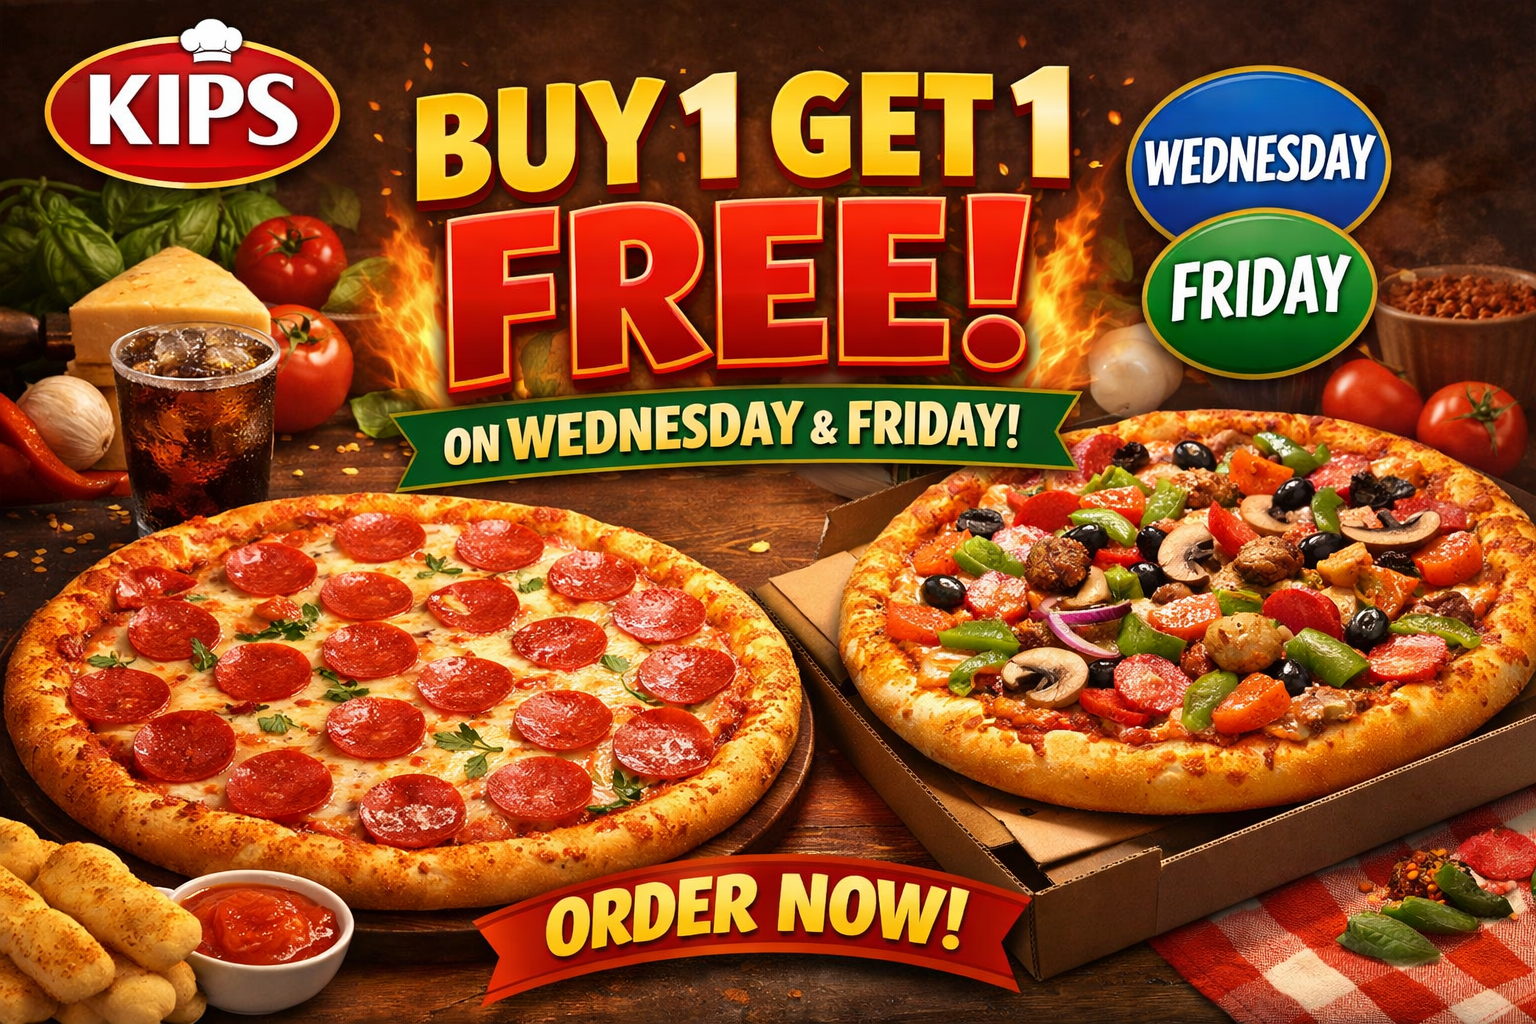
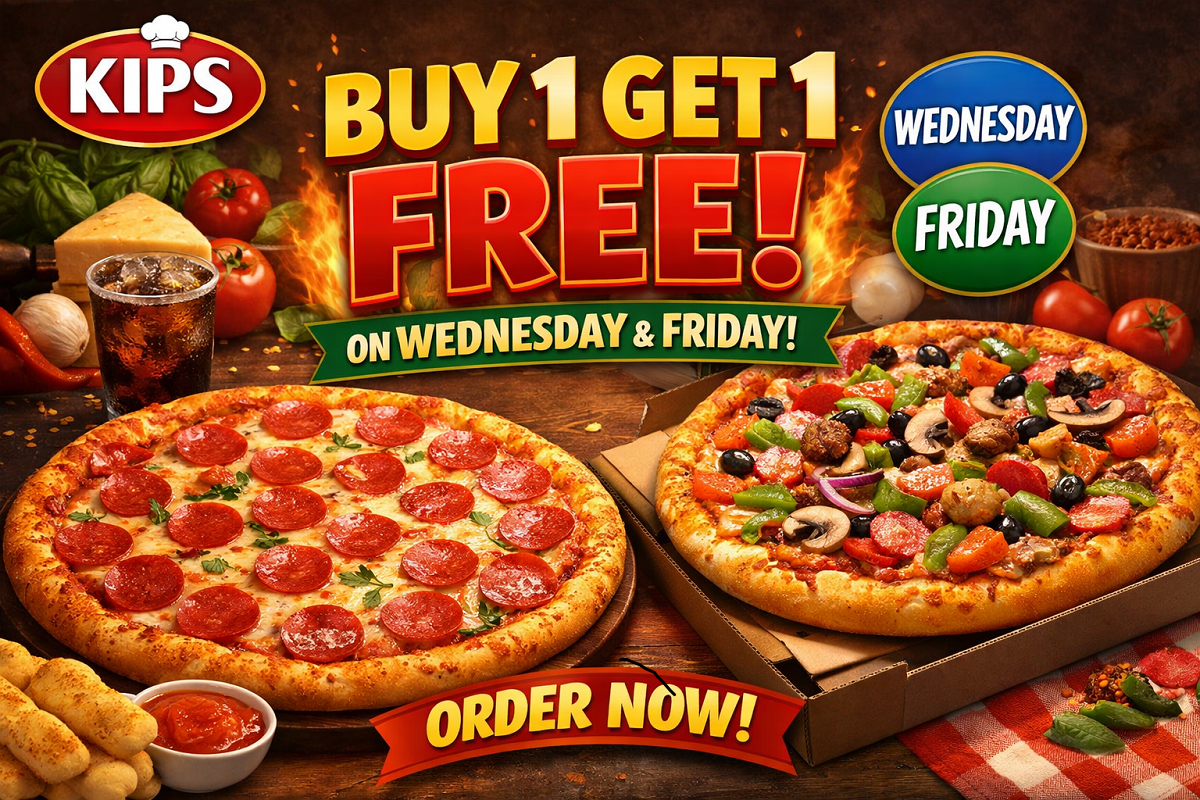
up

Changed region(s): [[0.5242, 0.8125, 0.555, 0.8438]]

diff --git a/api/checkout.php b/api/checkout.php
@@ -1,10 +1,6 @@
 <?php
 /*********************************
  * CHECKOUT API
- * Dynamically calculates delivery fee based on distance
- * Integrates with cart.php for cart management
- * Payment-first flow with proper transaction handling
- * UPDATED: Works with Cookie-based authentication
  *********************************/
 
 ob_start();
@@ -15,7 +11,7 @@ ob_start();
 header("Access-Control-Allow-Origin: *");
 header("Access-Control-Allow-Credentials: true");
 header("Access-Control-Allow-Methods: GET, POST, PUT, DELETE, OPTIONS");
-header("Access-Control-Allow-Headers: Content-Type, Authorization, X-Requested-With, Accept, X-Session-Token, Cookie");
+header("Access-Control-Allow-Headers: Content-Type, Authorization, X-Requested-With, Accept");
 header("Access-Control-Max-Age: 3600");
 header("Content-Type: application/json; charset=UTF-8");
 header("Cache-Control: no-store, no-cache, must-revalidate");
@@ -28,28 +24,7 @@ if ($_SERVER['REQUEST_METHOD'] === 'OPTIONS') {
 /*********************************
  * SESSION CONFIG
  *********************************/
-// Initialize session with proper settings for cross-platform
 if (session_status() === PHP_SESSION_NONE) {
-    $isLocal = ($_SERVER['HTTP_HOST'] === 'localhost' || $_SERVER['SERVER_NAME'] === 'localhost');
-    
-    // Allow session to work with cookies from Flutter
-    if ($isLocal) {
-        session_set_cookie_params([
-            'lifetime' => 86400 * 30,
-            'path' => '/',
-            'httponly' => false,  // Set to false so Flutter can access
-            'samesite' => 'Lax'
-        ]);
-    } else {
-        session_set_cookie_params([
-            'lifetime' => 86400 * 30,
-            'path' => '/',
-            'domain' => '',
-            'secure' => true,
-            'httponly' => false,  // Set to false so Flutter can access
-            'samesite' => 'None'
-        ]);
-    }
     session_start();
 }
 
@@ -92,67 +67,25 @@ define('DROPX_AIRTEL_MONEY_NUMBER', '0999000000');
 define('DROPX_TNM_MPAMBA_NUMBER', '0888000000');
 
 /*********************************
- * IMPROVED AUTHENTICATION - Works with Cookies
+ * AUTHENTICATION - SIMPLE SESSION CHECK
  *********************************/
-function checkAuthentication() {
-    // Start session if not already started
-    if (session_status() === PHP_SESSION_NONE) {
-        session_start();
-    }
-    
-    // Log authentication attempt for debugging
-    error_log("=== AUTHENTICATION CHECK ===");
-    error_log("Session ID: " . session_id());
-    error_log("Session user_id: " . ($_SESSION['user_id'] ?? 'NOT SET'));
-    error_log("Session logged_in: " . ($_SESSION['logged_in'] ?? 'NOT SET'));
-    error_log("Cookie header: " . ($_SERVER['HTTP_COOKIE'] ?? 'NOT SET'));
-    
-    // Method 1: Check PHP session (works with cookies from Flutter)
-    if (!empty($_SESSION['user_id']) && !empty($_SESSION['logged_in']) && $_SESSION['logged_in'] === true) {
-        error_log("✅ Authentication successful via SESSION. User ID: " . $_SESSION['user_id']);
-        return $_SESSION['user_id'];
-    }
-    
-    // Method 2: Check for session token in header (alternative for Flutter)
-    $sessionToken = $_SERVER['HTTP_X_SESSION_TOKEN'] ?? null;
-    if ($sessionToken) {
-        // Try to restore session by token
-        $oldSessionId = session_id();
-        session_id($sessionToken);
-        session_start();
-        
-        if (!empty($_SESSION['user_id']) && !empty($_SESSION['logged_in'])) {
-            error_log("✅ Authentication successful via X-Session-Token. User ID: " . $_SESSION['user_id']);
-            return $_SESSION['user_id'];
-        }
-        
-        // Restore original session ID
-        session_id($oldSessionId);
-        session_start();
-    }
-    
-    // Method 3: Check for user ID header (fallback for direct API calls)
-    $userId = $_SERVER['HTTP_X_USER_ID'] ?? null;
-    if ($userId && is_numeric($userId)) {
-        error_log("⚠️ Authentication via X-User-ID header (less secure). User ID: " . $userId);
-        // For security, we should validate this against a token
-        // But for now, accept it as fallback
-        return (int)$userId;
-    }
-    
-    // Method 4: Try to restore session from PHPSESSID cookie
-    if (isset($_COOKIE['PHPSESSID'])) {
-        session_id($_COOKIE['PHPSESSID']);
-        session_start();
-        
-        if (!empty($_SESSION['user_id']) && !empty($_SESSION['logged_in'])) {
-            error_log("✅ Authentication successful via PHPSESSID cookie. User ID: " . $_SESSION['user_id']);
-            return $_SESSION['user_id'];
-        }
-    }
-    
-    error_log("❌ Authentication FAILED - No valid session found");
-    return null;
+// Simple authentication - same as your working files
+if (!isset($_SESSION['user_id']) || !isset($_SESSION['logged_in']) || $_SESSION['logged_in'] !== true) {
+    ResponseHandler::error('Authentication required. Please log in again.', 401);
+    exit();
+}
+
+$userId = $_SESSION['user_id'];
+
+/*********************************
+ * DATABASE CONNECTION
+ *********************************/
+$db = new Database();
+$conn = $db->getConnection();
+
+if (!$conn) {
+    ResponseHandler::error('Database connection failed', 500);
+    exit();
 }
 
 /*********************************
@@ -753,22 +686,6 @@ try {
     if (!$input) {
         $input = $_POST;
     }
-    
-    $userId = checkAuthentication();
-    
-    if (!$userId) {
-        ob_clean();
-        ResponseHandler::error('Authentication required. Please log in again.', 401);
-        exit();
-    }
-    
-    $db = new Database();
-    $conn = $db->getConnection();
-    
-    if (!$conn) {
-        ResponseHandler::error('Database connection failed', 500);
-        exit();
-    }
 
     if ($method === 'GET') {
         $cart = getActiveCart($conn, $userId);
@@ -1064,8 +981,7 @@ try {
     }
 
 } catch (Exception $e) {
-    error_log("Checkout API Error: " . $e->getMessage());
     ob_clean();
-    ResponseHandler::error('Server error occurred: ' . $e->getMessage(), 500);
+    ResponseHandler::error('Server error occurred', 500);
 }
 ?>